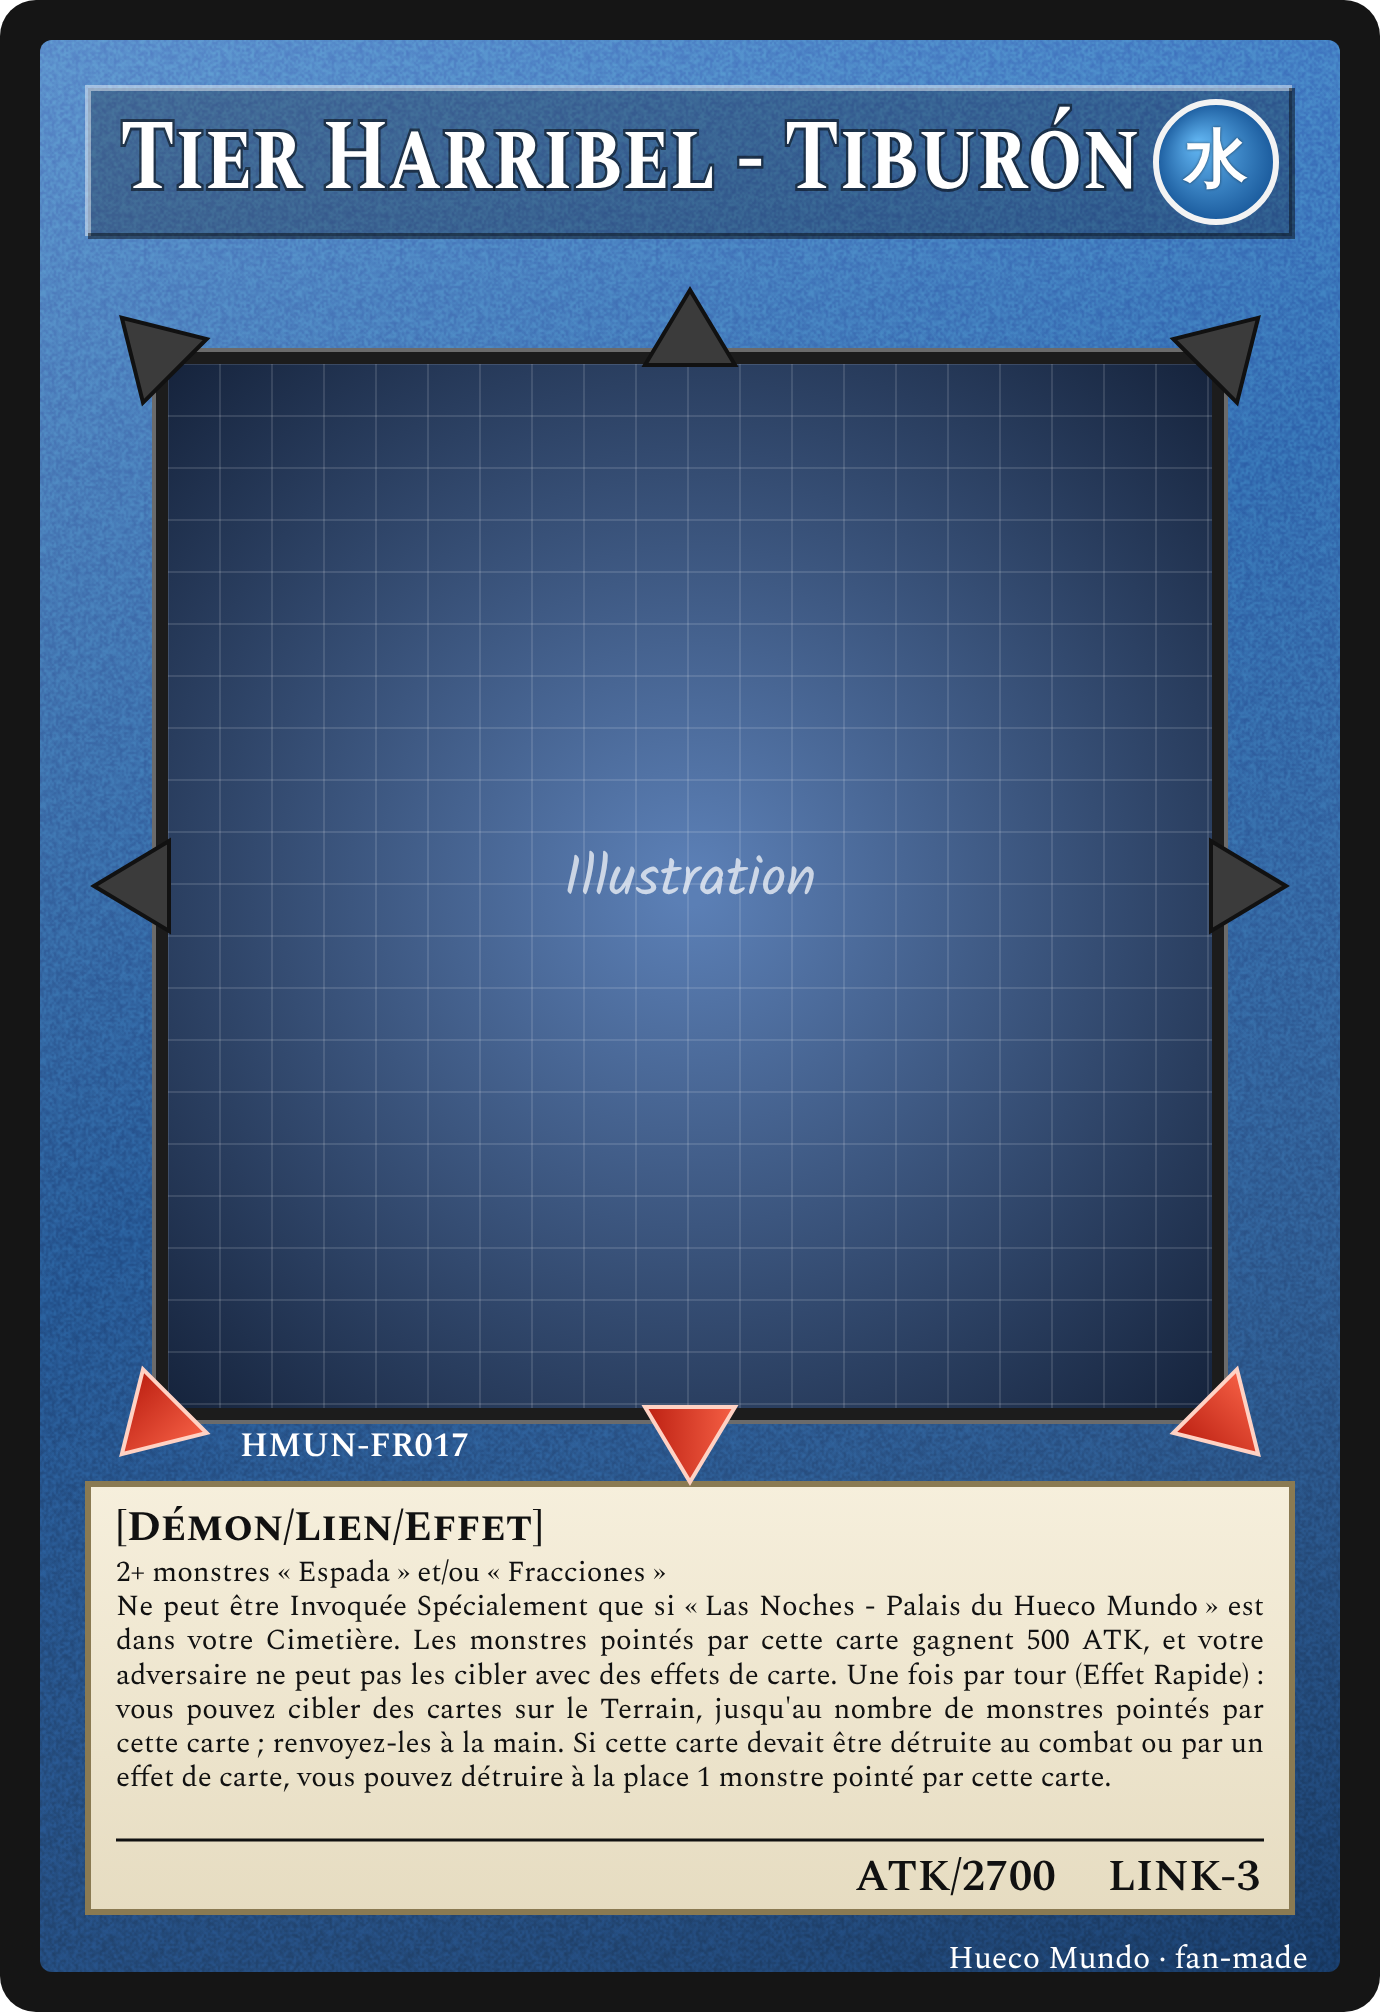
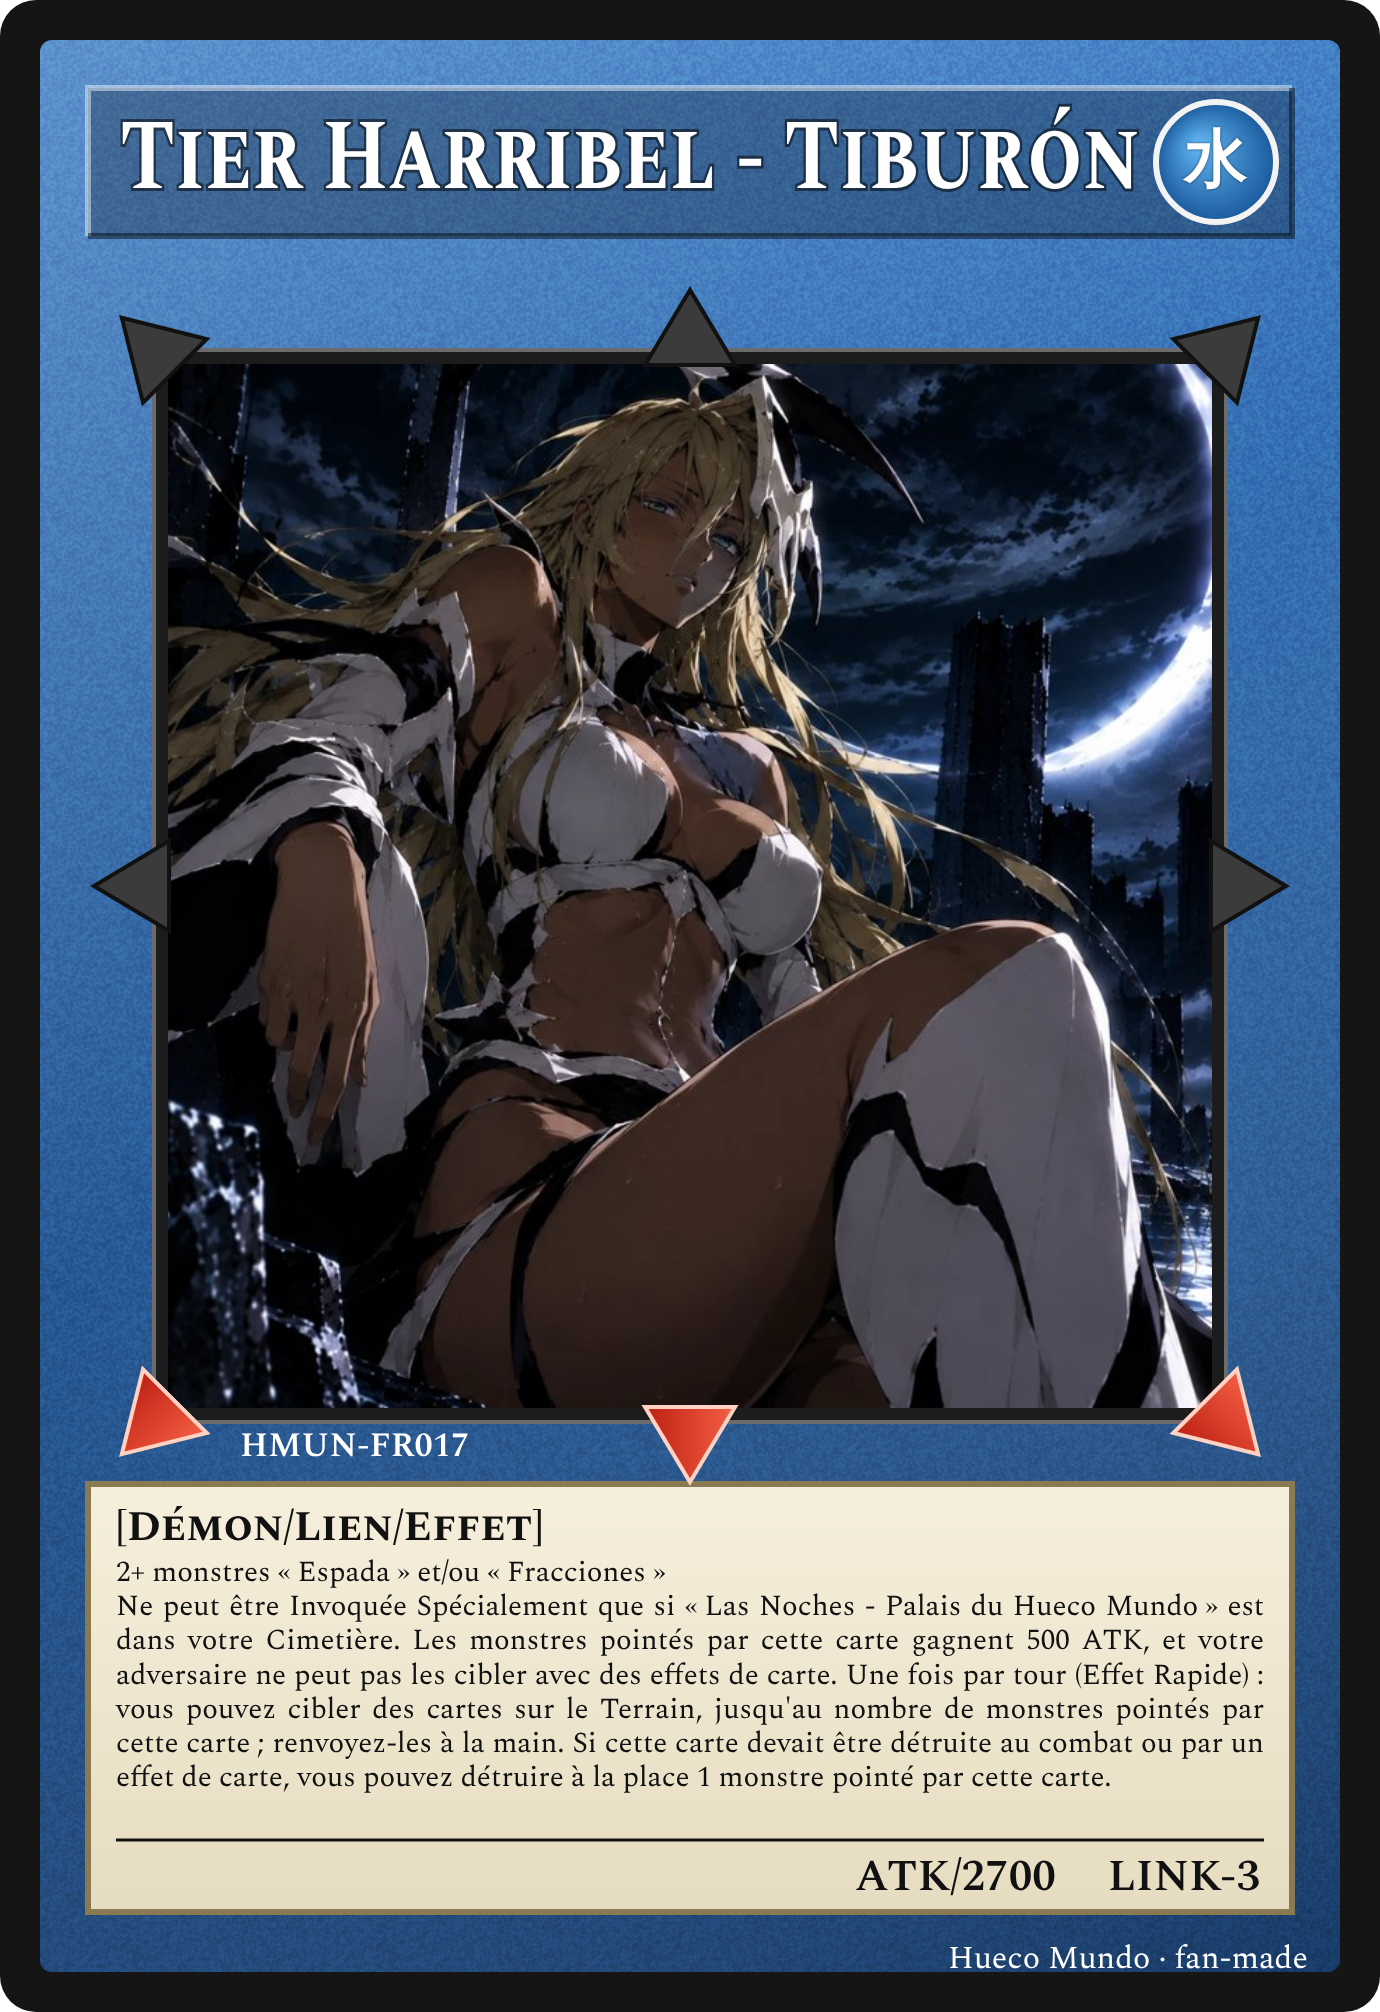
Hueco Mundo : visuel de Tier Harribel - Tiburón
Claude-Session: https://claude.ai/code/session_01CeiwhQp6R4Er8VccCFyYbK

diff --git a/archetypes/hueco-mundo/FICHE.md b/archetypes/hueco-mundo/FICHE.md
@@ -75,7 +75,7 @@ Magie Jeu-Rapide « Cero » (FR003).
 | HMUN-FR014 | Barragán Luisenbarn - Le Second Espada | Monstre à Effet, Niv. 7, 2600/2000 | Terminée |
 | HMUN-FR015 | Barragán Luisenbarn - Arrogante | Monstre Fusion/Effet, Niv. 9, 3200/2500 | Texte validé · visuel à venir |
 | HMUN-FR016 | Tier Harribel - La Troisième Espada | Monstre à Effet EAU, Niv. 5, 2100/1400 | Texte validé · visuel à venir |
-| HMUN-FR017 | Tier Harribel - Tiburón | Monstre Lien/Effet EAU, LINK-3 (↙ ↓ ↘), 2700 | Texte validé · visuel à venir |
+| HMUN-FR017 | Tier Harribel - Tiburón | Monstre Lien/Effet EAU, LINK-3 (↙ ↓ ↘), 2700 | Terminée |
 | HMUN-FR013 | Lilynette Gingerbuck - La Fracción du Premier Espada | Monstre à Effet, Niv. 4, 1000/1000 | Terminée (visuel basse résolution, 288×432) |
 | HMUN-FR002 | Las Noches - Palais du Hueco Mundo | Magie de Terrain | Terminée |
 | HMUN-FR003 | Cero Oscuras - Le Cero Noir du Désespoir | Magie Jeu-Rapide | Terminée |
